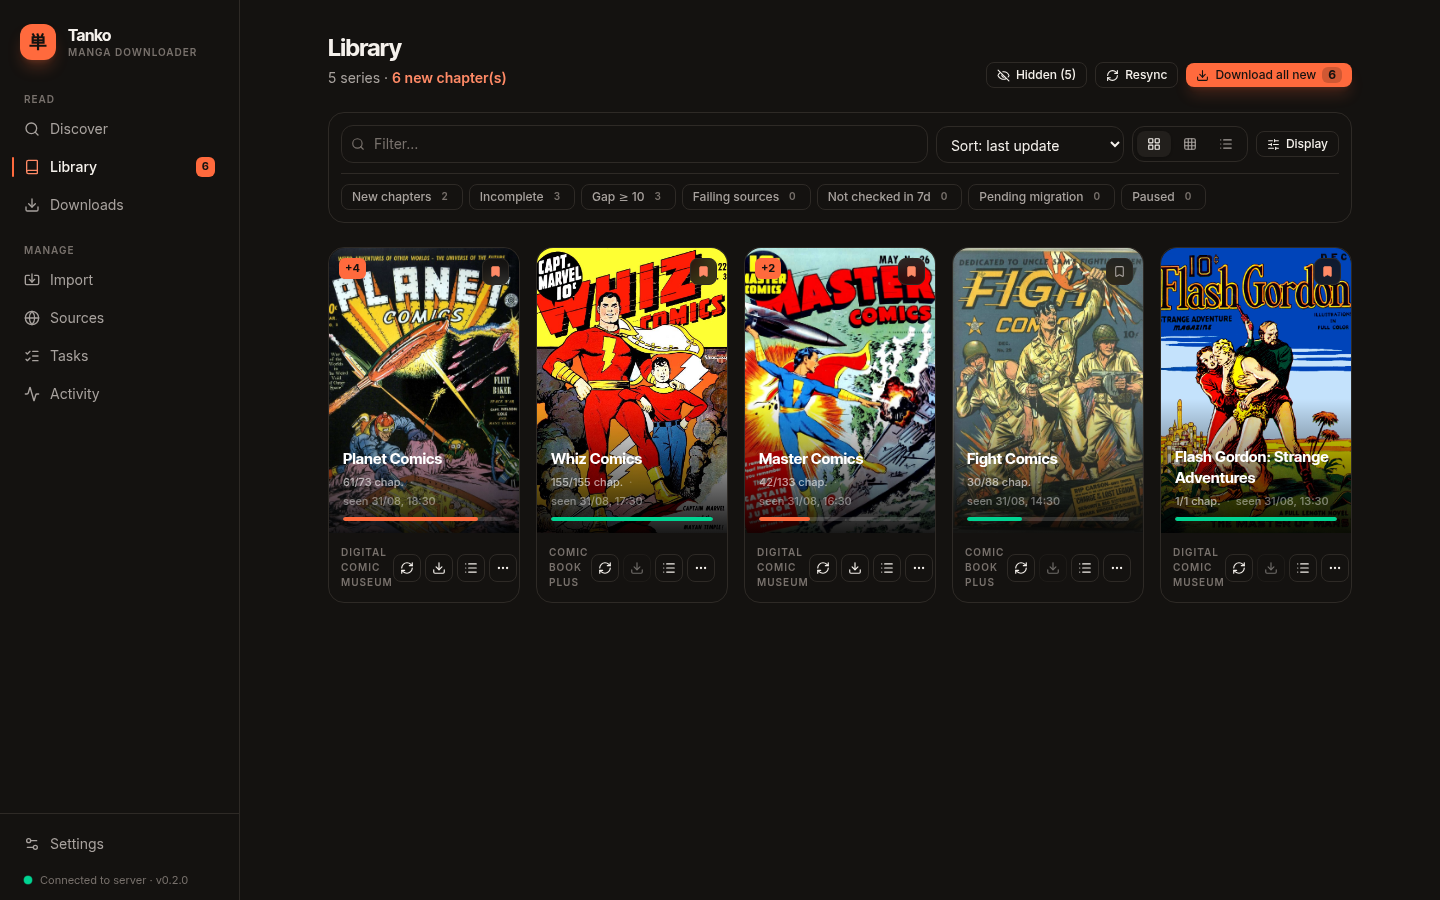
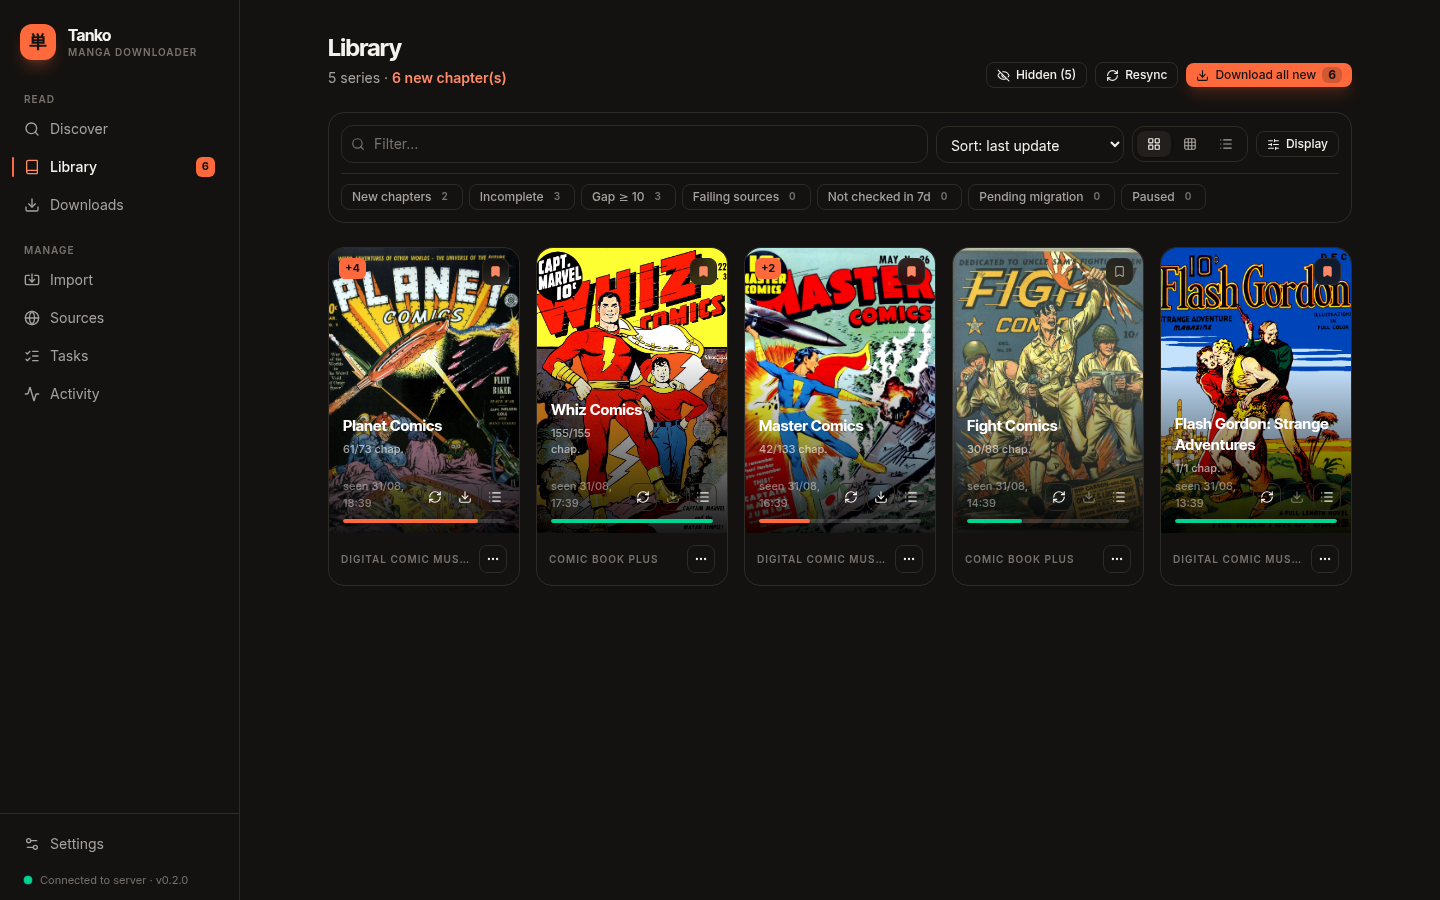
fix(library): move grid-card actions onto the cover scrim
Footer kept only the truncated source label + overflow menu, so narrow
(2-col mobile) cards no longer overflow. Actions reveal on hover for
desktop, stay visible on touch (existing card-actions mechanism).

Changed region(s): [[0.375, 0.4044, 0.9375, 0.6533], [0.2188, 0.4356, 0.3438, 0.6533]]

diff --git a/packages/dashboard/src/components/library/EntryCard.tsx b/packages/dashboard/src/components/library/EntryCard.tsx
@@ -325,13 +325,19 @@ export function EntryGridCard({ entry, state, handlers, menuRef, longPress }: En
                 <div className="pointer-events-none absolute left-2.5 top-2.5 flex flex-col items-start gap-1">{statusBadges(entry, t)}</div>
                 {coverCornerButton(entry, state, handlers, t)}
                 {/* scrim: title + stats overlaid on the cover */}
-                <div className="pointer-events-none absolute inset-x-0 bottom-0 bg-gradient-to-t from-black/90 via-black/45 to-transparent px-3.5 pb-3 pt-12">
+                <div className="pointer-events-none absolute inset-x-0 bottom-0 bg-gradient-to-t from-black/90 via-black/45 to-transparent px-3.5 pb-2.5 pt-12">
                     <div className="line-clamp-2 font-display text-[15px] font-bold leading-snug text-white">{entry.title}</div>
-                    <div className="mt-1 flex flex-wrap items-center gap-x-1.5 gap-y-0.5 text-[11px] font-medium text-white/60">
-                        {statLine(entry, state.prefs, t, formatDate)}
-                        {entry.paused && (
-                            <span className="rounded bg-white/10 px-1.5 py-0.5 text-[10px] font-semibold uppercase tracking-wide">{t('library.paused')}</span>
-                        )}
+                    <div className="mt-1 flex items-end justify-between gap-2">
+                        <div className="flex min-w-0 flex-1 flex-wrap items-center gap-x-1.5 gap-y-0.5 text-[11px] font-medium text-white/60">
+                            {statLine(entry, state.prefs, t, formatDate)}
+                            {entry.paused && (
+                                <span className="rounded bg-white/10 px-1.5 py-0.5 text-[10px] font-semibold uppercase tracking-wide">{t('library.paused')}</span>
+                            )}
+                        </div>
+                        {/* primary actions overlaid on the cover: hover-revealed on desktop, always visible on touch */}
+                        <div className="card-actions pointer-events-auto -mr-1 flex flex-none items-center gap-0.5">
+                            {primaryActions(entry, state, handlers, t, state.view !== 'grid-compact')}
+                        </div>
                     </div>
                     {state.prefs.progress && (
                         <div className="mt-2 h-1 w-full overflow-hidden rounded-full bg-white/15">
@@ -344,17 +350,14 @@ export function EntryGridCard({ entry, state, handlers, menuRef, longPress }: En
                 </div>
             </div>
             <div className="space-y-1.5 p-3">
-                <div className="flex items-center justify-between">
+                <div className="flex items-center justify-between gap-2">
                     {state.prefs.source &&
                         (entry.sourceLabel ? (
-                            <span className="text-[10px] font-semibold uppercase tracking-widest text-faint">{entry.sourceLabel}</span>
+                            <span className="min-w-0 flex-1 truncate text-[10px] font-semibold uppercase tracking-widest text-faint">{entry.sourceLabel}</span>
                         ) : (
-                            <span className="text-[10px] font-semibold uppercase tracking-widest text-red-400">{t('library.noSourceBadge')}</span>
+                            <span className="min-w-0 flex-1 truncate text-[10px] font-semibold uppercase tracking-widest text-red-400">{t('library.noSourceBadge')}</span>
                         ))}
-                    <div className="card-actions ml-auto flex items-center gap-1">
-                        {primaryActions(entry, state, handlers, t, state.view !== 'grid-compact')}
-                        {actionMenu(entry, state, handlers, menuRef, t, state.view === 'grid-compact')}
-                    </div>
+                    <div className="ml-auto flex flex-none items-center">{actionMenu(entry, state, handlers, menuRef, t, state.view === 'grid-compact')}</div>
                 </div>
                 {migrationBanner(entry, handlers, t)}
                 {chaptersPanel(entry, state, handlers, t)}
